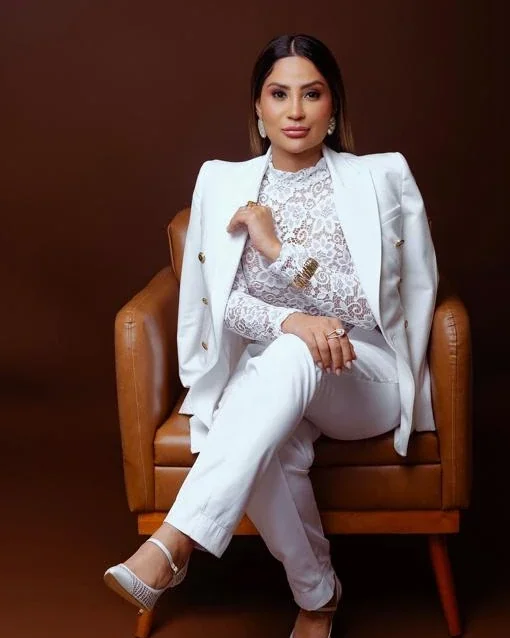
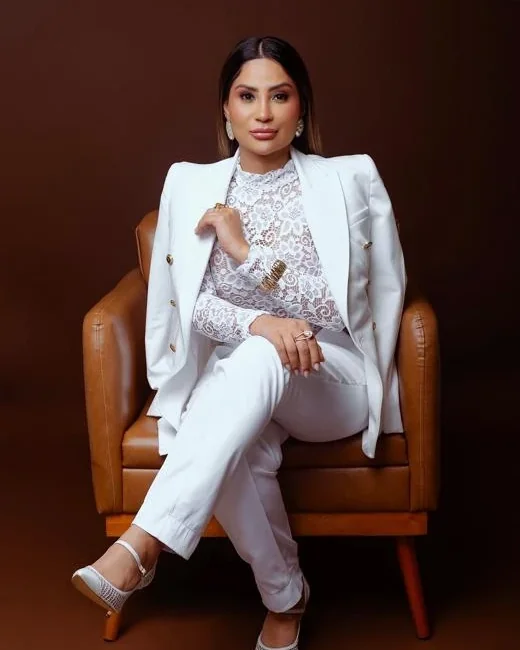
Centraliza a Dra. na foto de terno branco

diff --git a/index.html b/index.html
@@ -110,7 +110,7 @@
     <section class="secao sobre" id="sobre">
       <div class="container sobre__grade">
         <figure class="sobre__foto">
-          <img src="img/sobre-dra.webp" alt="Dra. Mayara Mota de terno branco, sentada em uma poltrona de couro caramelo" width="510" height="638" loading="lazy">
+          <img src="img/sobre-dra.webp" alt="Dra. Mayara Mota de terno branco, sentada em uma poltrona de couro caramelo" width="520" height="650" loading="lazy">
           <figcaption>Dra. Mayara Mota</figcaption>
         </figure>
         <div class="sobre__texto">
